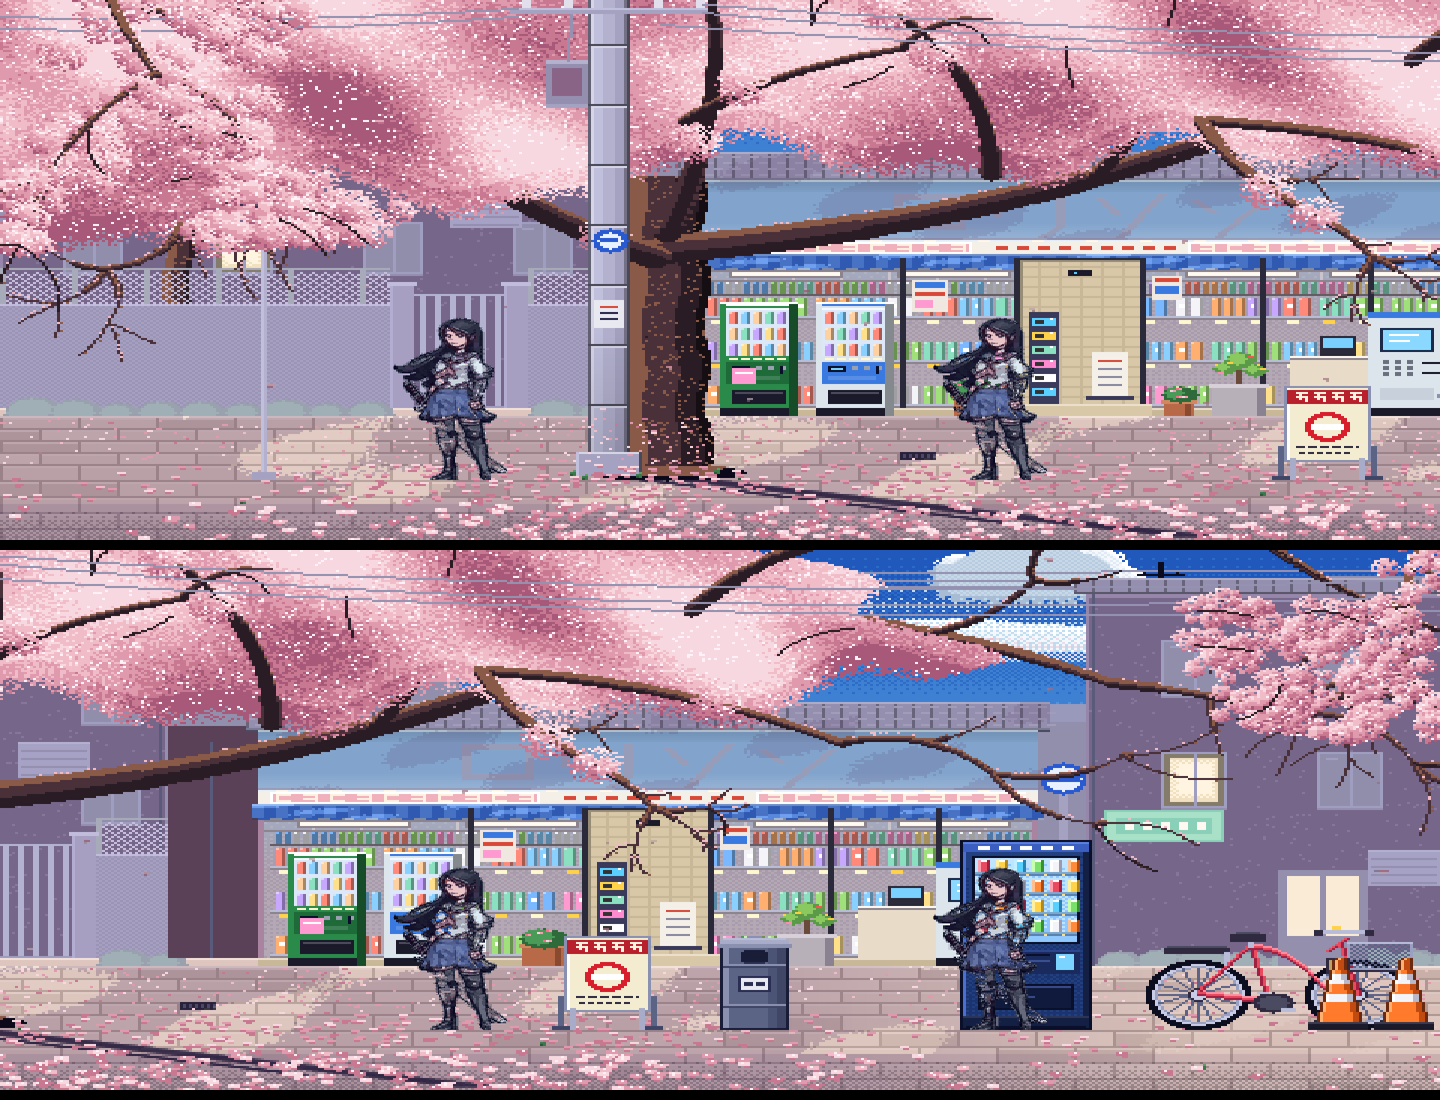
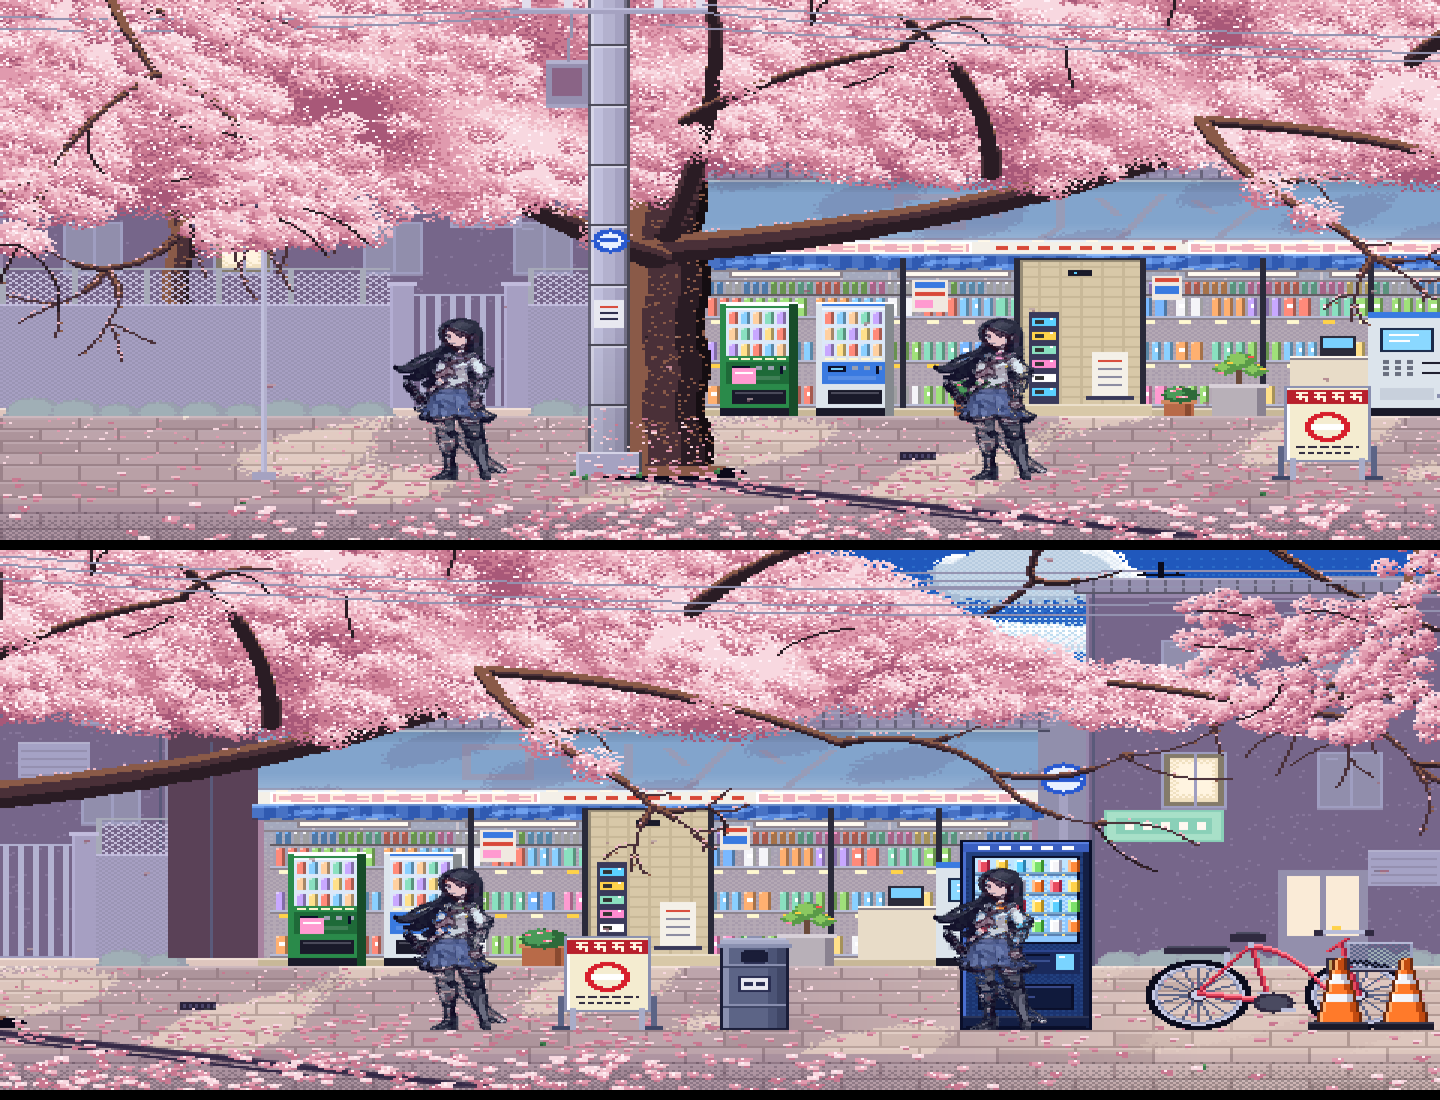
konbini tree: the crown outlined like the pin (rounded top letting the sky in at the upper right, hem hugging the roof line to the right edge) with cluster detail kept over the solid mass

diff --git a/dist/index.html b/dist/index.html
@@ -1333,13 +1333,14 @@
     if (opts.canopy) {
       const { x0, x1, ytop, ylow, n } = opts.canopy;
       if (solid) {   // 「可以一大片去做」: one solid mass of blossom above the lower-edge curve — big lobes of light and shade, fine grain, a ragged hem, glints; the sky only where the canopy ends
-        for (let x = Math.floor(x0); x < x1; x++) { const yl = ylow(x); for (let y = Math.floor(ytop); y < yl; y++) {
+        for (let x = Math.floor(x0); x < x1; x++) { const yl = ylow(x), yt = opts.canopy.ytopFn ? opts.canopy.ytopFn(x) : ytop; for (let y = Math.floor(yt); y < yl; y++) {
           const edge = yl - y; if (edge < 9 && HS(x, y, seed + 91) > edge / 9 + 0.1) continue;
-          const xr = (opts.canopy.xr || 1e9) + 40 * Math.sin(y / 21 + seed) + 18 * Math.sin(y / 7); if (x > xr - 6 && (x > xr || HS(x, y, seed + 95) > (xr - x) / 6)) continue;   // a ragged right edge: sky beyond it
-          const lobe = 0.8 * Math.sin(x / 37 + y / 23 + seed) + 0.6 * Math.sin(x / 17 - y / 29) + 0.5 * Math.sin((x - y) / 13) + (HS(x, y, seed + 92) - 0.5) * 0.9 + (y < ytop + 70 ? 0.35 : 0) - (edge < 16 ? 0.6 : 0) + light * 0.15 * Math.sin(x / 53);
+          const et = y - yt; if (et < 7 && HS(x, y, seed + 95) > et / 7 + 0.1) continue;   // a ragged upper edge where the crown's rounded top comes into view (sky above it)
+          const lobe = 0.8 * Math.sin(x / 37 + y / 23 + seed) + 0.6 * Math.sin(x / 17 - y / 29) + 0.5 * Math.sin((x - y) / 13) + (HS(x, y, seed + 92) - 0.5) * 0.9 + (y < yt + 70 ? 0.35 : 0) - (edge < 16 ? 0.6 : 0) + light * 0.15 * Math.sin(x / 53);
           L.set(x, y, HS(x, y, seed + 93) < 0.05 ? WHITE : lobe > 0.95 ? TONES[4] : lobe > 0.3 ? TONES[3] : lobe > -0.4 ? TONES[2] : lobe > -1.0 ? TONES[1] : TONES[0]); mark(x, y);
         } }
-      } else for (let i = 0; i < n; i++) { const x = x0 + HS(i, 61, seed) * (x1 - x0), yl = ylow(x), y = ytop + HS(i, 62, seed) * (yl - ytop), r = (2.5 + HS(i, 63, seed) * 3) * (opts.puff || 1); if (y + r * 0.5 > yl) continue; cluster(x, y, r, 200 + (i % 37)); }   // the canopy: a mass of clusters above an undulating lower edge
+        for (let i = 0; i < (n >> 1); i++) { const x = x0 + HS(i, 64, seed) * (x1 - x0), yl = ylow(x), yt = opts.canopy.ytopFn ? opts.canopy.ytopFn(x) : ytop, y = yt + HS(i, 65, seed) * (yl - yt), r = (2 + HS(i, 66, seed) * 2.5) * (opts.puff || 1); if (y + r * 0.6 > yl || y - r * 0.6 < yt) continue; cluster(x, y, r, 300 + (i % 41)); }   // 「保留細節」: clusters over the mass so it reads as flowers, not a flat fill
+      } else for (let i = 0; i < n; i++) { const x = x0 + HS(i, 61, seed) * (x1 - x0), yl = ylow(x), yt = opts.canopy.ytopFn ? opts.canopy.ytopFn(x) : ytop, y = yt + HS(i, 62, seed) * (yl - yt), r = (2.5 + HS(i, 63, seed) * 3) * (opts.puff || 1); if (y + r * 0.5 > yl || y - r * 0.5 < yt) continue; cluster(x, y, r, 200 + (i % 37)); }   // the canopy: a mass of clusters above an undulating lower edge
     }
     for (const l of limbs) if (l[5] === 0 && HS(l[0] + l[2], l[1] + l[3], seed + 45) < 0.35) { const n = Math.max(2, Math.round(Math.hypot(l[2] - l[0], l[3] - l[1]))); for (let i = 0; i <= n; i++) { const [px, py] = limbPt(l, i / n); L.set(Math.round(px), Math.round(py), BARK3); } }   // twigs threading through the blossoms
     if (opts.puff > 1.5) { for (const l of limbs) if (l[5] >= 2 && HS(l[0] * 3 + l[2], l[1] + l[3] * 3, seed + 47) < 0.6) limbLine(l, 0.8); let kk = 0; for (const l of limbs) { if (l[5] >= 2 && HS(l[0] + l[3], l[1] + l[2], seed + 48) < 0.5) { const [fx, fy] = limbPt(l, HS(kk, 49, seed)); cluster(fx + (HS(kk, 50, seed) - 0.5) * 8, fy - 2, 5 * (opts.puff || 1) * 0.9, kk); } kk++; } }   // the thick branches in front of the blossoms, a few clusters over them again
@@ -1471,7 +1472,7 @@
     ellipse(L, 222, 236, 26, 4, hx('#0c0a1a'));
     sakuraOn(L, 220, 24, 440, 170, 37, { big: true, trunkW: 30, bottom: 237, light: 1, puff: 2.2, lace: true, grain: true,
       skeleton: [[222, 124, 470, 30, 14, 34], [470, 30, 610, 66, 8, -18], [330, 86, 300, 8, 8, 16], [400, 60, 520, 96, 7, -14], [400, 60, 440, 108, 6, 10], [218, 128, 110, 20, 11, -26], [120, 60, 60, 112, 6, 12], [160, 74, 60, 40, 6, -9], [222, 116, 236, -10, 9, 14], [228, 60, 300, 24, 6, -10]],
-      canopy: { x0: -60, x1: 660, xr: 520, ytop: -34, n: 1000, solid: !!TH.day, ylow: (x) => 84 + 28 * Math.max(0, Math.min(1, (200 - x) / 80)) + (x < 200 ? 16 : 8) * Math.sin(x / 23) + 6 * Math.sin(x / 11 + 1) - Math.max(0, x - 420) * 0.08 } });   // the pin's tree: curved limbs (the long one over the store to the right edge), one canopy hanging lowest by the trunk; by day a solid mass
+      canopy: { x0: -60, x1: 660, ytop: -34, n: 1400, solid: !!TH.day, ytopFn: (x) => Math.max(-34, -34 + (x - 440) * 0.5 + 8 * Math.sin(x / 19 + 2)), ylow: (x) => 92 + 16 * Math.max(0, Math.min(1, (260 - x) / 90)) + 5 * Math.sin(x / 23) + 3 * Math.sin(x / 11 + 1) - Math.max(0, x - 460) * 0.05 } });   // the pin's crown: a rounded top letting the sky in at the upper right, a hem hugging the store's roof line (lowest by the trunk), the long limb inside it
     for (let i = 0; i < 5; i++) rect(L, 220 - 22 + i, 233 + i, 44 - 2 * i, 1, T('bark2'));   // the root flare
     // ---- the utility pole in front of it: the crossarm at the top, wires sagging across the sky, the transformer, signs, the drop cable
     { const PL = [hx(mixc(TH.poleDark, '#000000', 0.4)), hx(mixc(TH.poleLight, '#ffffff', 0.35)), T('poleLight'), T('poleLight'), T('poleLight'), T('pole'), T('pole'), T('pole'), T('pole'), T('poleDark'), T('poleDark'), T('poleDark'), hx(mixc(TH.poleDark, '#000000', 0.3)), hx(mixc(TH.poleDark, '#000000', 0.55))];   // a cylinder: edge, bright rim, light, mid, dark, edge

diff --git a/src/stage.js b/src/stage.js
@@ -313,13 +313,14 @@
     if (opts.canopy) {
       const { x0, x1, ytop, ylow, n } = opts.canopy;
       if (solid) {   // 「可以一大片去做」: one solid mass of blossom above the lower-edge curve — big lobes of light and shade, fine grain, a ragged hem, glints; the sky only where the canopy ends
-        for (let x = Math.floor(x0); x < x1; x++) { const yl = ylow(x); for (let y = Math.floor(ytop); y < yl; y++) {
+        for (let x = Math.floor(x0); x < x1; x++) { const yl = ylow(x), yt = opts.canopy.ytopFn ? opts.canopy.ytopFn(x) : ytop; for (let y = Math.floor(yt); y < yl; y++) {
           const edge = yl - y; if (edge < 9 && HS(x, y, seed + 91) > edge / 9 + 0.1) continue;
-          const xr = (opts.canopy.xr || 1e9) + 40 * Math.sin(y / 21 + seed) + 18 * Math.sin(y / 7); if (x > xr - 6 && (x > xr || HS(x, y, seed + 95) > (xr - x) / 6)) continue;   // a ragged right edge: sky beyond it
-          const lobe = 0.8 * Math.sin(x / 37 + y / 23 + seed) + 0.6 * Math.sin(x / 17 - y / 29) + 0.5 * Math.sin((x - y) / 13) + (HS(x, y, seed + 92) - 0.5) * 0.9 + (y < ytop + 70 ? 0.35 : 0) - (edge < 16 ? 0.6 : 0) + light * 0.15 * Math.sin(x / 53);
+          const et = y - yt; if (et < 7 && HS(x, y, seed + 95) > et / 7 + 0.1) continue;   // a ragged upper edge where the crown's rounded top comes into view (sky above it)
+          const lobe = 0.8 * Math.sin(x / 37 + y / 23 + seed) + 0.6 * Math.sin(x / 17 - y / 29) + 0.5 * Math.sin((x - y) / 13) + (HS(x, y, seed + 92) - 0.5) * 0.9 + (y < yt + 70 ? 0.35 : 0) - (edge < 16 ? 0.6 : 0) + light * 0.15 * Math.sin(x / 53);
           L.set(x, y, HS(x, y, seed + 93) < 0.05 ? WHITE : lobe > 0.95 ? TONES[4] : lobe > 0.3 ? TONES[3] : lobe > -0.4 ? TONES[2] : lobe > -1.0 ? TONES[1] : TONES[0]); mark(x, y);
         } }
-      } else for (let i = 0; i < n; i++) { const x = x0 + HS(i, 61, seed) * (x1 - x0), yl = ylow(x), y = ytop + HS(i, 62, seed) * (yl - ytop), r = (2.5 + HS(i, 63, seed) * 3) * (opts.puff || 1); if (y + r * 0.5 > yl) continue; cluster(x, y, r, 200 + (i % 37)); }   // the canopy: a mass of clusters above an undulating lower edge
+        for (let i = 0; i < (n >> 1); i++) { const x = x0 + HS(i, 64, seed) * (x1 - x0), yl = ylow(x), yt = opts.canopy.ytopFn ? opts.canopy.ytopFn(x) : ytop, y = yt + HS(i, 65, seed) * (yl - yt), r = (2 + HS(i, 66, seed) * 2.5) * (opts.puff || 1); if (y + r * 0.6 > yl || y - r * 0.6 < yt) continue; cluster(x, y, r, 300 + (i % 41)); }   // 「保留細節」: clusters over the mass so it reads as flowers, not a flat fill
+      } else for (let i = 0; i < n; i++) { const x = x0 + HS(i, 61, seed) * (x1 - x0), yl = ylow(x), yt = opts.canopy.ytopFn ? opts.canopy.ytopFn(x) : ytop, y = yt + HS(i, 62, seed) * (yl - yt), r = (2.5 + HS(i, 63, seed) * 3) * (opts.puff || 1); if (y + r * 0.5 > yl || y - r * 0.5 < yt) continue; cluster(x, y, r, 200 + (i % 37)); }   // the canopy: a mass of clusters above an undulating lower edge
     }
     for (const l of limbs) if (l[5] === 0 && HS(l[0] + l[2], l[1] + l[3], seed + 45) < 0.35) { const n = Math.max(2, Math.round(Math.hypot(l[2] - l[0], l[3] - l[1]))); for (let i = 0; i <= n; i++) { const [px, py] = limbPt(l, i / n); L.set(Math.round(px), Math.round(py), BARK3); } }   // twigs threading through the blossoms
     if (opts.puff > 1.5) { for (const l of limbs) if (l[5] >= 2 && HS(l[0] * 3 + l[2], l[1] + l[3] * 3, seed + 47) < 0.6) limbLine(l, 0.8); let kk = 0; for (const l of limbs) { if (l[5] >= 2 && HS(l[0] + l[3], l[1] + l[2], seed + 48) < 0.5) { const [fx, fy] = limbPt(l, HS(kk, 49, seed)); cluster(fx + (HS(kk, 50, seed) - 0.5) * 8, fy - 2, 5 * (opts.puff || 1) * 0.9, kk); } kk++; } }   // the thick branches in front of the blossoms, a few clusters over them again
@@ -451,7 +452,7 @@
     ellipse(L, 222, 236, 26, 4, hx('#0c0a1a'));
     sakuraOn(L, 220, 24, 440, 170, 37, { big: true, trunkW: 30, bottom: 237, light: 1, puff: 2.2, lace: true, grain: true,
       skeleton: [[222, 124, 470, 30, 14, 34], [470, 30, 610, 66, 8, -18], [330, 86, 300, 8, 8, 16], [400, 60, 520, 96, 7, -14], [400, 60, 440, 108, 6, 10], [218, 128, 110, 20, 11, -26], [120, 60, 60, 112, 6, 12], [160, 74, 60, 40, 6, -9], [222, 116, 236, -10, 9, 14], [228, 60, 300, 24, 6, -10]],
-      canopy: { x0: -60, x1: 660, xr: 520, ytop: -34, n: 1000, solid: !!TH.day, ylow: (x) => 84 + 28 * Math.max(0, Math.min(1, (200 - x) / 80)) + (x < 200 ? 16 : 8) * Math.sin(x / 23) + 6 * Math.sin(x / 11 + 1) - Math.max(0, x - 420) * 0.08 } });   // the pin's tree: curved limbs (the long one over the store to the right edge), one canopy hanging lowest by the trunk; by day a solid mass
+      canopy: { x0: -60, x1: 660, ytop: -34, n: 1400, solid: !!TH.day, ytopFn: (x) => Math.max(-34, -34 + (x - 440) * 0.5 + 8 * Math.sin(x / 19 + 2)), ylow: (x) => 92 + 16 * Math.max(0, Math.min(1, (260 - x) / 90)) + 5 * Math.sin(x / 23) + 3 * Math.sin(x / 11 + 1) - Math.max(0, x - 460) * 0.05 } });   // the pin's crown: a rounded top letting the sky in at the upper right, a hem hugging the store's roof line (lowest by the trunk), the long limb inside it
     for (let i = 0; i < 5; i++) rect(L, 220 - 22 + i, 233 + i, 44 - 2 * i, 1, T('bark2'));   // the root flare
     // ---- the utility pole in front of it: the crossarm at the top, wires sagging across the sky, the transformer, signs, the drop cable
     { const PL = [hx(mixc(TH.poleDark, '#000000', 0.4)), hx(mixc(TH.poleLight, '#ffffff', 0.35)), T('poleLight'), T('poleLight'), T('poleLight'), T('pole'), T('pole'), T('pole'), T('pole'), T('poleDark'), T('poleDark'), T('poleDark'), hx(mixc(TH.poleDark, '#000000', 0.3)), hx(mixc(TH.poleDark, '#000000', 0.55))];   // a cylinder: edge, bright rim, light, mid, dark, edge

diff --git a/README.md b/README.md
@@ -123,6 +123,7 @@ node server.js 5200
   - **白天主題的泛光**：GL 的泛光是為夜景霓虹設計的（亮度 ≥ 238 的像素進泛光層），白天的粉白花與陽光斑塊會整片發光。`gl.js` 加 `setBloom(strength)`，`game.js` 換場景時白天主題設 0.12、夜晚 0.7。
   - **「樹枝要有彎度／顏色對照圖的整體色調／櫻花可以一大片去做」**：`sakuraOn` 重寫——枝條是二次曲線的弧（每段有隨機彎度，沿弧用由粗到細的圓盤描、上緣亮下緣暗），骨架給定的粗枝各有指定的彎度、中段再分叉；白天的樹冠改成 `solid` 實心花海（在下緣曲線之上整片填滿：大塊明暗波瓣、細顆粒、鋸齒狀下擺、白點，右緣參差露出天空與雲）；顏色用六個橫帶量兩張圖的平均色校正（我們比圖亮 20–60、彩度低約 20），白天調色盤整體壓暗並飽和（花 #a85878→#f8d8e0、天空更深的藍、店牆與鄰屋改成陰影中的粉紫、石板略深、地面陰影 62/255）。
   - **「角色照動作圖分析去精細畫」**：使用者又貼了六張動作表（都是 ref/ 裡已有的 A／B／C／V 表），拿對照表（`ref/art/sprite_blocks.png`、`raw_vs_cur`）看：材質轉移後顏色與對比已對上，剩下的是每個材質內部的畫風雜點（每帶的邊緣密度與色數仍高於乾淨的參考）。`ref/sprite_kuwahara.py [N] [R]`：對每格的不透明像素做 Oklab 的 Kuwahara 濾波（半徑 R，頭部帶用半徑 1 保住眼睛與嘴）——每個像素改成四個象限中最平的那個象限的平均色，區域內的雜點消失、區域之間的邊保留——再用 `pixelclean.clean` 重新量化成 N 色並做 ΔE 守衛的去斑。比較半徑 1 與 2：半徑 2 太平（邊緣密度 0.18–0.30，低於參考的 0.39–0.50，臉也糊），採用半徑 1（0.19–0.35；每格約 3200 px 改色、去斑 110–150 px、56 色）。備份 `ref/art/sprites-jk-smooth.js`（此輪之前）。
+  - **「注意整體的形狀」「保留細節」（樹冠的輪廓）**：使用者描了圖裡樹冠的輪廓——一個圓弧狀的大團：上緣往右下斜（天空只在右上角、在花海「上方」露出），下緣是貼著店屋頂的平緩邊線、一路到右邊框（靠樹幹處略低）。`canopy` 加 `ytopFn(x)`（上緣曲線，帶 7 px 參差；取代原本垂直切開的右緣），下緣改成 92 px 附近的小波（靠樹幹 +16、右端 −10）；「保留細節」：實心花海之上再撒 700 團顆粒花簇，枝條照舊畫在花海前面，所以仍讀得出一團團的花與穿過的枝。夜晚版的散布花海也用同一組輪廓。
   - **「增加一些場景可以破壞的東西」**：`src/stage.js` `PROPS` 八個可破壞道具——自動販賣機（4 下：亮窗→裂窗變暗→整台倒下、罐子滾出）、腳踏車（2 下：靠牆傾斜→倒地）、校門兩盞燈（2 下：裂→暗，光暈與牆上的光斑一起消失）、立て看板（2 下：歪斜龜裂→平躺）、垃圾桶（2 下：凹→翻倒、垃圾散出）、三角錐×2（1 下踢倒）。每個狀態各畫一張像素圖（與舞台同密度：抖色、亮邊暗邊、輪廓；倒下的姿勢是整張旋轉 90° 再加散落物），`game.js` 轉成畫布畫在人物後面；`tickBreakables()` 用攻擊判定框、被打飛的身體、光彈去碰，每次出招只算一次，破壞時碎片＋震動＋音效。GL 的泛光是從近景層亮像素另外算的，所以燈改由道具畫（近景層不再畫燈），道具的亮像素用 `fx` 進泛光層。
   - **「圖外圍的白邊拿掉」**：解混後最外圈仍是一圈淡紫（動作表的深色輪廓對淡背景的反鋸齒；量出來：外圈平均亮度 114、往內兩圈只有 76）。`refine2.py` 的 `dehalo()`：亮於背後輪廓的外圈像素改成半透明邊緣像素、所有半透明像素改取 2px 內最深的不透明像素的顏色（只留自己的透明度），邊緣永遠往輪廓色淡出。外圈平均亮度降到 65、亮像素 36.6%→8.5%。`compare_parts.py` 的色差從此不計動作表自己的最外圈（129 格：色差 6.9–10.6、顏色 183–230、邊緣 1.04–1.13、漏像素 3.0–5.4%）。
   - **「背景的物體根據角色的比例去做對照」＋「場景參考 Pinterest『ドット絵 背景』」**：先做對照圖（[docs/proportion_before_after.png](docs/proportion_before_after.png)：人物＋公尺尺＋每個物件的現在／實物／目標尺寸）——人物 82 px ＝ 158 cm ⇒ 52 px/m；原本的道具只有實物一半大（腳踏車 26 px＝0.5 m、三角錐 0.35 m）、門柱 1.6 m、樹 1.4 m。`src/stage.js` 整個依這把尺重畫：圍牆 1.0 m、門柱 2.2 m＋30 cm 門灯、門扉 1.8 m（4 m 寬的校門，門裡看得到 ×0.3 的校舍、旗桿）、牆後 ×0.4 的公寓（1×1.2 m 的窗、陽台、水塔、店鐘）、×0.6 的櫻花樹冠（群聚陰影＋櫻花高光、樹枝）、人行道上的電線桿（出畫面，橫樑、變壓器、電線橫過天空，路燈改掛在桿上 3.6 m）、遠景東京鐵塔＋城市霧光、磁磚人行道＋点字ブロック＋路緣＋柏油白線與行人穿越道、水漥、雨水口；道具全部改成實物尺寸重畫（自販機 95×44、腳踏車 91×52 有籃子車燈貨架、看板 47×29 有進入禁止標誌、垃圾桶 47×23、三角錐 36×20 兩道反光帶、門灯 16×16 連牆上光斑）。命中：拳打得到自販機與腳踏車，踢才碰得到 90 cm 的看板與垃圾桶，跳踢打門灯，蹲重攻擊踢倒三角錐——2D 與 GL 都驗證過。
